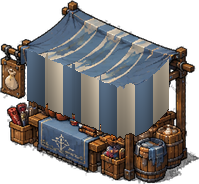
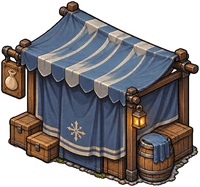
Marktstände nachts zu mit Marcos Bildern
Claude-Session: https://claude.ai/code/session_01BHCPNydytyQ3HGQCArHVor

diff --git a/tools/marktstand_zu.py b/tools/marktstand_zu.py
@@ -1,45 +1,51 @@
-"""Marktstände nachts zu (D20d, VORLÄUFIG bis zu Marcos Bildern): Das Dach wird als Vorhang heruntergelassen.
+"""Marktstände nachts zu (D20d): Marcos Blatt tools/vorlagen/marktstaende_zu.png (links rot, rechts blau, Auftrag B6e).
 
-Aus assets/baukasten/objekte/marktstand_rot.png und marktstand_blau.png entstehen *_zu.png: Unter dem Dach hängt ein
-gestreifter Stoff in den Farben des Dachs bis über die Ware. Kommen Marcos gezeichnete Bilder, ersetzen sie diese.
+Jeder geschlossene Stand wird so groß gemacht wie der offene (gleiche Breite der sichtbaren Fläche) und bekommt denselben
+Fußpunkt relativ zu seiner Unterkante, damit er genau auf dem Platz des offenen Stands steht.
+Ergebnis: assets/baukasten/objekte/marktstand_rot_zu.png, marktstand_blau_zu.png und die Fußpunkte in
+data/baukasten_teile.json.
 Aufruf: python3 tools/marktstand_zu.py   (braucht numpy, scipy und Pillow)
 """
-import math
+import json
+import sys
 from pathlib import Path
 
 import numpy as np
 from PIL import Image
-from scipy import ndimage
 
-OBJEKTE = Path(__file__).resolve().parent.parent / "assets" / "baukasten" / "objekte"
-## Stand -> wie weit der Vorhang unter das Dach fällt (Pixel)
-STAENDE = [("marktstand_rot", 46), ("marktstand_blau", 50)]
-for n, fall in STAENDE:
-	a = np.array(Image.open(OBJEKTE / f"{n}.png").convert("RGBA"))
-	h,w=a.shape[:2]
-	rgb=a[...,:3].astype(int); al=a[...,3]>128
-	r,g,b=rgb[...,0],rgb[...,1],rgb[...,2]
-	stoff=((r>140)&(r>g+40)&(r>b+40)) if 'rot' in n else ((b>120)&(b>r+30))
-	hell=(r>200)&(g>190)&(b>170)
-	oben=np.arange(h)[:,None]<h*0.55
-	maske=ndimage.binary_closing(al&oben&(stoff|hell),iterations=2)&al
-	lab,k=ndimage.label(maske); m=lab==(np.argmax(ndimage.sum(maske,lab,range(1,k+1)))+1)
-	farbe=np.median(rgb[m&stoff],0); hellf=np.median(rgb[m&hell],0) if (m&hell).any() else farbe
-	erg=a.copy()
-	cols=np.where(m.any(0))[0]
-	x0,x1=cols.min()+6,cols.max()-6
-	for x in range(x0,x1+1):
-		ys=np.where(m[:,x])[0]; y0=ys.max()
-		y_end=min(h-1,y0+fall)
-		# Streifen wie das Dach: abwechselnd Farbe und hell, Falten als Schatten
-		streifen=int((x-x0)/18)%2==1
-		basis=hellf if streifen else farbe
-		falte=0.85+0.15*math.cos((x-x0)/6.0)
-		for y in range(y0,y_end+1):
-			tiefe=1.0-0.25*(y-y0)/fall
-			c=np.clip(basis*falte*tiefe,0,255)
-			erg[y,x,:3]=c; erg[y,x,3]=255
-		# dunkler Saum unten
-		erg[y_end,x,:3]=(40,28,20)
-	Image.fromarray(erg).save(OBJEKTE / f"{n}_zu.png")
-	print(f"{n}_zu.png")
+WURZEL = Path(__file__).resolve().parent.parent
+sys.path.insert(0, str(WURZEL / "tools"))
+from aussehen_bilder import teile  # noqa: E402
+
+OBJEKTE = WURZEL / "assets" / "baukasten" / "objekte"
+TEILE = WURZEL / "data" / "baukasten_teile.json"
+STAENDE = ["marktstand_rot", "marktstand_blau"]
+
+
+def rahmen(a):
+	ys, xs = np.where(a[..., 3] > 128)
+	return xs.min(), ys.min(), xs.max(), ys.max()
+
+
+def main():
+	stuecke = [t for reihe in teile("marktstaende_zu") for t in reihe]
+	if len(stuecke) != len(STAENDE):
+		raise SystemExit(f"marktstaende_zu: {len(stuecke)} Stände, erwartet {len(STAENDE)}")
+	daten = json.loads(TEILE.read_text(encoding="utf-8"))
+	for name, stueck in zip(STAENDE, stuecke):
+		offen = np.array(Image.open(OBJEKTE / f"{name}.png").convert("RGBA"))
+		x0, y0, x1, y1 = rahmen(offen)
+		fuss = daten["objekte"][name]["fuss"]
+		faktor = (x1 - x0) / (rahmen(stueck)[2] - rahmen(stueck)[0])
+		bild = Image.fromarray(stueck)
+		bild = bild.resize((round(bild.width * faktor), round(bild.height * faktor)), Image.LANCZOS)
+		zx0, _, zx1, zy1 = rahmen(np.array(bild))
+		# Fußpunkt: gleicher Abstand zur linken und zur unteren Kante wie beim offenen Stand
+		daten["objekte"][f"{name}_zu"]["fuss"] = [round(zx0 + fuss[0] - x0), round(zy1 - (y1 - fuss[1]))]
+		bild.save(OBJEKTE / f"{name}_zu.png")
+		print(f"{name}_zu: {bild.size}, Fuß {daten['objekte'][f'{name}_zu']['fuss']}")
+	TEILE.write_text(json.dumps(daten, ensure_ascii=False, indent="\t"), encoding="utf-8")
+
+
+if __name__ == "__main__":
+	main()

diff --git a/FORTSCHRITT.md b/FORTSCHRITT.md
@@ -13,7 +13,7 @@ Wird nach jedem Arbeitsschritt aktualisiert.
 
 - **Nächster Schritt:** D21 (Grünwacht-Figuren nach Steckbrief: Salbei, Borko, Ysolde nachts, Oma Hagebutte). Alle Testtage stehen seit 02.11. am Ende, Marco testet das volle Spiel zusammen. D9h wartet auf Marcos Bilder (GRAFIK_AUFTRAG.md, Teil E).
 
-- **Neu (04.11.): D20d Kreuzweg bei Tag und Nacht** (1.9, NPC.md): Die Figuren stehen nach der Uhr an ihren Plätzen. Nachts ist Ye (am Tor) in der Gilde und hat „Nachtschicht“, Marv sitzt im Wegrast, Tessa und Gorm (neu in der Stadt, mit je einem Satz für Tag und Nacht) übernachten dort auch, und drei Gäste machen den Wegrast voll. Edmar, Quill, Pip und Lotte sind nachts zu Hause (am Festabend sind sie da). Neu ist das Volk aus dem Baukasten: Marktfrau Rosa und Gemüsehändler Jost an den Marktständen, vier Bürger auf dem Platz (nachts nur der alte Bürger), dazu die drei Torwachen jetzt mit Wachen-Körper. Jeder sagt einen Satz. Nachts sind die beiden Marktstände zu (vorläufig: das Dach hängt als Vorhang herunter, Bildauftrag B6e in GRAFIK_AUFTRAG.md); Bingo, Hatta, Bank, Gilde und Wegrast bleiben offen. Noch nicht drin: Das Volk läuft noch keine kleinen Runden, und die Halstücher zum Fest fehlen.
+- **Neu (04.11.): D20d Kreuzweg bei Tag und Nacht** (1.9, NPC.md): Die Figuren stehen nach der Uhr an ihren Plätzen. Nachts ist Ye (am Tor) in der Gilde und hat „Nachtschicht“, Marv sitzt im Wegrast, Tessa und Gorm (neu in der Stadt, mit je einem Satz für Tag und Nacht) übernachten dort auch, und drei Gäste machen den Wegrast voll. Edmar, Quill, Pip und Lotte sind nachts zu Hause (am Festabend sind sie da). Neu ist das Volk aus dem Baukasten: Marktfrau Rosa und Gemüsehändler Jost an den Marktständen, vier Bürger auf dem Platz (nachts nur der alte Bürger), dazu die drei Torwachen jetzt mit Wachen-Körper. Jeder sagt einen Satz. Nachts sind die beiden Marktstände zu (mit deinen Bildern: Vorhang herunter, Kisten zu); Bingo, Hatta, Bank, Gilde und Wegrast bleiben offen. Noch nicht drin: Das Volk läuft noch keine kleinen Runden, und die Halstücher zum Fest fehlen.
   - **So testest du es:**
     1. Tagsüber über den Marktplatz: Rosa und Jost an den Ständen, Bürger ansprechen.
     2. Mit dem Test-Knopf „Uhr +3 h“ auf Nacht stellen: Stände zu, Kinder, Quill und Edmar weg.

diff --git a/BAUAUFTRAEGE.md b/BAUAUFTRAEGE.md
@@ -66,7 +66,7 @@ Sagt Marco „Mach weiter“, „Mach den nächsten Bauauftrag“ oder „Mach D
 - **D20b:** Ye mit Regenschirm und seinen neuen Sprüchen (Bilder `haupt_ye_welt.png`, `haupt_ye_portraets.png`). – Status: fertig
 - **D20c:** Kreuzweg-Figuren nach Steckbrief: eigene Köpfe und Baukasten-Körper für Lene, Hanne, Ilse, Edmar, Brom, Quill, Pip, Lotte; Bingo, Marv, Mira mit ihren eigenen Bildern; Porträts im Gespräch. – Status: fertig (04.11.2026; geteilt, Rest in D20c2)
 - **D20c2:** Tessa und Gorm mit eigenen Köpfen auf den Novizen-Körpern (Welt und Kampf), Zubehör der Nebenfiguren (Hannes Schürze und Kochlöffel, Ilses Schlüsselbund, Edmars Amtskette und Festschärpe, Broms Helm, Quills Meißel, Pips Holzschwert, Lottes Papierkrone), Mira krank liegend. – Status: fertig (04.11.2026; Ilses Ärmelschoner und Edmars Festschärpen noch nicht im Spiel, Mira liegt erst im Krankenzelt der Glutoase)
-- **D20d:** Figuren tags und nachts an ihren Plätzen (Steckbriefe), Volk aus dem Baukasten (Wachen, Marktleute, Bürger, Gäste im Wegrast), Marktstände nachts zu. – Status: fertig (04.11.2026; geschlossene Stände vorläufig, Bildauftrag B6e; Volk steht, läuft noch keine Runden)
+- **D20d:** Figuren tags und nachts an ihren Plätzen (Steckbriefe), Volk aus dem Baukasten (Wachen, Marktleute, Bürger, Gäste im Wegrast), Marktstände nachts zu. – Status: fertig (04.11.2026; Volk steht, läuft noch keine Runden)
 - **D21:** Grünwacht-Figuren nach Steckbrief: Salbei, Borko, Ysolde nachts, Oma Hagebutte. (1.10) – Status: offen
 - **D22:** Monster nach Regelblatt in Kreuzwegfeldern, Hirschtal, Wachtwald, Tiefwurzel und Pilzhöhle, dazu die Spezialbewegungen der Pilzhöhlen-Bosse. (1.11) – Status: offen
 
